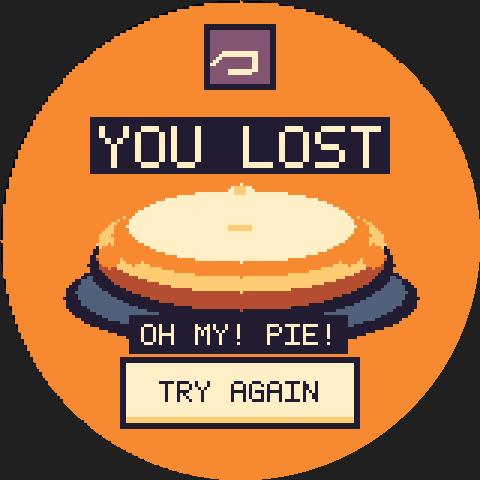
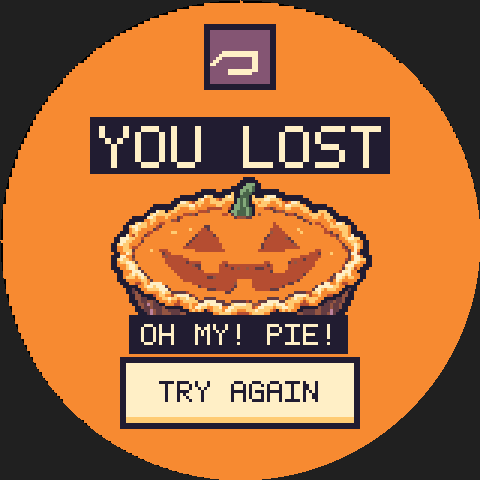
feat(porthole): GPT-drawn jack-o'-lantern pie on the YOU LOST screen
The code-drawn pie is replaced by a jack-o'-lantern pumpkin pie generated
with Codex's image tool and picked from four candidates shown on the real
lost screen. tools/pie.py converts art/pie.png onto the 160px grid in
Pumpkin's palette, adds a 1px ink rim so it stands off the orange page and
writes pie.h (87x56, about 5 KB); make art regenerates it and make check
fails when it is stale. The art skill documents the generate, convert,
review loop for future set pieces.

Changed region(s): [[0.125, 0.3438, 0.875, 0.7188]]

diff --git a/apps/porthole/games/pumpkin-hide-seek/pie.h b/apps/porthole/games/pumpkin-hide-seek/pie.h
@@ -1,0 +1,9 @@
+// Generated by games/pumpkin-hide-seek/tools/pie.py from art/pie.png. Do not edit.
+#pragma once
+#include <stdint.h>
+namespace pumpkin { namespace pie {
+constexpr int W = 87, H = 56;
+constexpr uint32_t COLORS[] = {0x201d32,0x49674d,0x633e43,0x87a878,0x925743,0xb74f30,0xb9809a,0xf58b32,0xffc875,0xffedc2};
+constexpr uint8_t CLEAR = 255;
+constexpr uint8_t PX[] = {255,255,255,255,255,255,255,255,255,255,255,255,255,255,255,255,255,255,255,255,255,255,255,255,255,255,255,255,255,255,255,255,255,255,255,255,255,255,255,255,255,255,255,255,0,0,0,0,255,255,255,255,255,255,255,255,255,255,255,255,255,255,255,255,255,255,255,255,255,255,255,255,255,255,255,255,255,255,255,255,255,255,255,255,255,255,255,255,255,255,255,255,255,255,255,255,255,255,255,255,255,255,255,255,255,255,255,255,255,255,255,255,255,255,255,255,255,255,255,255,255,255,255,255,255,255,255,255,255,255,0,0,0,0,0,0,255,255,255,255,255,255,255,255,255,255,255,255,255,255,255,255,255,255,255,255,255,255,255,255,255,255,255,255,255,255,255,255,255,255,255,255,255,255,255,255,255,255,255,255,255,255,255,255,255,255,255,255,255,255,255,255,255,255,255,255,255,255,255,255,255,255,255,255,255,255,255,255,255,255,255,255,255,255,255,255,0,0,0,3,3,3,0,0,255,255,255,255,255,255,255,255,255,255,255,255,255,255,255,255,255,255,255,255,255,255,255,255,255,255,255,255,255,255,255,255,255,255,255,255,255,255,255,255,255,255,255,255,255,255,255,255,255,255,255,255,255,255,255,255,255,255,255,255,255,255,255,255,255,255,255,255,255,255,255,255,255,255,255,255,255,0,0,0,0,3,3,3,1,0,0,255,255,255,255,255,255,255,255,255,255,255,255,255,255,255,255,255,255,255,255,255,255,255,255,255,255,255,255,255,255,255,255,255,255,255,255,255,255,255,255,255,255,255,255,255,255,255,255,255,255,255,255,255,255,255,255,255,255,255,255,255,255,255,255,255,255,255,0,0,0,0,0,255,255,0,0,0,0,0,0,3,3,1,3,1,0,0,0,0,0,0,0,0,255,255,255,255,255,255,255,255,255,255,255,255,255,255,255,255,255,255,255,255,255,255,255,255,255,255,255,255,255,255,255,255,255,255,255,255,255,255,255,255,255,255,255,255,255,255,255,255,255,255,255,255,255,255,255,255,255,255,255,0,0,0,0,0,0,0,0,0,0,0,0,8,0,0,3,1,1,1,0,0,0,0,0,0,0,0,0,0,0,255,255,255,255,255,255,255,255,255,255,255,255,255,255,255,255,255,255,255,255,255,255,255,255,255,255,255,255,255,255,255,255,255,255,255,255,255,255,255,255,255,255,255,255,255,255,255,255,255,255,255,255,0,0,0,0,0,0,0,0,9,8,8,0,0,0,0,8,9,8,0,0,1,1,1,0,8,0,0,0,8,9,9,9,0,0,0,0,0,0,0,0,0,255,255,255,255,255,255,255,255,255,255,255,255,255,255,255,255,255,255,255,255,255,255,255,255,255,255,255,255,255,255,255,255,255,255,255,255,255,255,255,255,255,255,255,255,0,0,0,0,0,0,0,0,8,9,7,7,8,8,7,5,8,8,8,8,0,3,1,3,1,0,8,8,8,8,9,9,8,8,8,7,0,0,0,0,0,0,0,0,0,255,255,255,255,255,255,255,255,255,255,255,255,255,255,255,255,255,255,255,255,255,255,255,255,255,255,255,255,255,255,255,255,255,255,255,255,255,255,255,255,255,0,0,0,9,9,8,7,5,8,8,8,7,7,8,8,8,8,8,7,7,7,0,3,1,3,1,0,7,8,7,8,8,8,7,7,8,8,7,5,7,9,9,8,0,0,0,0,255,255,255,255,255,255,255,255,255,255,255,255,255,255,255,255,255,255,255,255,255,255,255,255,255,255,255,255,255,255,255,255,255,255,0,0,0,0,0,0,0,0,8,8,8,8,9,9,7,8,7,7,7,7,7,8,8,7,7,7,0,3,3,1,3,1,0,0,7,8,8,8,7,7,7,7,8,7,9,9,8,8,8,8,7,0,0,0,0,0,0,0,255,255,255,255,255,255,255,255,255,255,255,255,255,255,255,255,255,255,255,255,255,255,255,255,255,255,255,255,0,0,0,0,0,0,0,0,8,8,7,7,7,8,8,7,7,7,7,5,5,5,5,5,7,7,5,0,3,3,1,1,3,1,0,7,7,7,5,5,2,5,7,7,7,8,8,7,7,7,8,8,8,0,0,0,0,0,0,0,0,255,255,255,255,255,255,255,255,255,255,255,255,255,255,255,255,255,255,255,255,255,255,255,255,255,0,0,0,9,8,8,0,7,8,8,7,7,7,7,7,7,7,5,5,5,4,7,7,7,7,7,7,0,3,3,1,1,1,3,1,0,7,7,7,7,7,7,2,4,5,4,7,7,7,7,7,7,8,8,7,0,0,8,8,8,0,0,0,255,255,255,255,255,255,255,255,255,255,255,255,255,255,255,255,255,255,255,255,255,255,255,0,0,8,9,8,8,8,8,8,7,7,7,7,5,5,4,5,2,7,7,7,7,7,7,7,7,5,5,7,2,3,1,1,1,3,1,0,7,4,7,7,7,7,7,7,7,7,2,5,5,2,7,7,7,7,8,8,8,8,7,8,8,0,0,0,255,255,255,255,255,255,255,255,255,255,255,255,255,255,255,255,255,255,0,0,0,0,0,9,9,8,7,7,7,8,7,7,7,2,5,7,7,7,7,7,7,7,7,7,7,7,7,7,7,7,7,7,2,5,4,4,2,2,7,7,7,7,7,7,7,7,7,7,7,7,7,7,7,2,2,7,7,7,8,8,7,7,8,8,8,0,0,0,0,0,255,255,255,255,255,255,255,255,255,255,255,255,255,255,0,0,0,0,0,7,7,8,8,7,7,7,7,7,4,5,2,7,7,7,7,7,7,7,7,7,7,7,7,7,7,7,7,7,7,7,7,7,7,7,7,7,7,7,7,7,7,7,7,7,7,7,7,7,7,7,7,7,2,5,7,7,7,7,7,7,8,7,7,0,0,0,0,0,255,255,255,255,255,255,255,255,255,255,255,255,0,0,0,8,9,8,8,7,8,7,7,5,5,7,7,7,7,7,7,7,7,7,7,7,7,7,7,7,7,7,7,7,7,7,7,7,7,7,7,7,7,7,7,7,7,7,7,7,7,5,7,7,7,7,7,7,7,7,7,7,7,2,7,5,5,7,7,7,8,7,9,9,8,0,0,0,255,255,255,255,255,255,255,255,255,255,0,0,8,9,9,8,8,8,7,7,7,5,2,7,7,7,7,7,7,7,7,7,7,7,7,7,7,2,2,7,7,7,7,7,7,7,7,7,7,7,7,7,7,7,7,7,7,7,7,7,5,5,7,7,7,7,7,7,7,7,7,7,7,7,7,7,5,7,7,8,8,8,8,8,8,7,0,0,255,255,255,255,255,255,255,255,255,0,0,7,8,9,8,7,7,7,7,2,5,7,7,7,7,7,7,7,7,7,7,8,7,7,7,5,5,2,7,7,7,7,7,7,7,7,7,7,7,7,7,7,7,7,7,7,7,7,5,5,5,5,7,7,7,7,7,8,7,7,7,7,7,7,7,7,5,7,7,7,7,8,8,8,7,0,0,255,255,255,255,255,255,255,255,0,0,0,7,8,8,7,7,7,5,5,7,7,7,7,7,7,8,8,7,7,7,7,7,7,7,5,5,5,5,5,7,7,7,7,7,7,7,7,7,7,7,7,7,7,7,7,7,7,7,4,5,5,5,5,7,7,7,7,7,8,7,7,7,7,7,7,7,5,5,2,7,7,7,8,8,7,0,0,0,0,255,255,255,255,255,0,0,0,9,7,5,8,7,7,2,5,7,7,7,7,7,7,7,7,7,7,7,7,7,7,7,2,5,5,5,5,5,2,7,7,7,7,7,7,7,7,7,7,7,7,7,7,7,7,7,2,5,5,5,5,5,5,7,7,7,7,7,7,7,7,7,7,7,7,7,7,5,5,2,7,8,8,7,9,0,0,0,0,255,255,255,0,0,9,9,9,8,8,7,7,5,7,7,7,7,7,7,7,7,7,7,7,7,7,7,7,7,2,5,5,5,5,5,5,5,5,7,7,7,7,7,7,7,7,7,7,7,7,7,7,7,2,5,5,5,5,5,5,4,2,7,7,7,7,7,7,7,7,7,7,7,7,7,7,7,4,7,7,8,9,9,8,8,0,0,255,255,255,0,0,9,9,8,8,7,7,7,2,7,7,7,7,7,7,7,7,7,7,7,7,7,7,7,2,5,5,5,5,5,5,5,5,5,7,7,7,7,7,7,7,7,7,7,7,7,7,7,7,5,5,5,5,5,5,5,5,5,2,7,7,7,7,7,7,7,7,7,7,7,7,7,7,7,5,7,7,8,8,8,7,7,0,0,255,0,0,8,9,8,8,7,7,7,5,7,7,7,7,7,7,7,7,7,7,7,7,7,7,7,2,5,5,5,5,5,5,5,5,5,5,5,7,7,7,7,7,7,7,7,7,7,7,7,7,2,5,5,5,5,5,5,5,5,5,5,4,7,7,7,7,7,7,7,7,7,7,7,7,7,7,7,2,7,7,8,9,8,7,0,0,255,0,0,7,7,8,8,7,5,5,7,7,7,7,7,7,7,7,7,7,7,7,7,7,7,5,5,5,5,5,5,5,5,5,5,5,5,5,7,7,7,7,7,7,7,7,7,7,7,7,7,2,5,5,5,5,5,5,5,5,5,5,5,5,7,7,7,7,7,7,7,7,7,7,7,7,7,7,5,2,7,7,9,8,7,0,0,255,0,0,7,7,8,8,8,2,7,7,7,7,7,8,7,7,5,5,5,7,7,7,7,7,7,7,7,7,5,5,5,5,5,5,5,5,5,5,7,7,7,7,7,7,7,7,7,7,7,5,5,5,5,5,5,5,5,5,7,7,7,7,7,7,7,7,7,7,5,5,7,7,7,7,7,7,7,7,5,2,7,9,7,0,0,0,255,255,0,0,7,7,9,8,5,7,7,7,7,7,7,7,7,7,2,5,5,7,7,7,7,7,7,7,7,7,7,7,7,7,7,7,7,7,7,7,7,7,7,7,7,7,7,7,7,7,7,7,7,7,7,7,7,7,7,7,7,7,7,7,7,7,7,5,5,5,2,7,7,7,8,7,7,7,7,7,2,9,9,5,0,0,0,255,0,0,0,9,9,7,7,2,7,7,7,7,7,7,7,7,7,5,4,5,5,5,5,5,7,7,7,7,7,7,7,7,7,7,7,7,7,7,7,7,7,7,7,7,7,7,7,7,7,7,7,7,7,7,7,7,7,7,7,7,7,7,7,5,5,5,5,5,5,5,7,7,7,7,7,7,7,7,7,2,7,9,9,7,0,0,0,0,0,8,9,8,8,7,4,7,7,7,7,7,7,7,7,7,7,5,5,5,5,5,5,5,5,7,7,7,7,7,7,7,7,7,7,7,7,7,7,7,7,7,7,7,7,7,7,7,7,7,7,7,7,7,7,7,7,7,7,5,5,5,5,2,5,5,5,5,7,7,7,7,7,7,7,7,7,5,2,7,9,9,8,8,0,0,0,0,7,8,8,9,9,8,2,7,7,7,7,7,7,7,7,7,5,5,5,5,5,5,5,2,5,5,5,5,7,7,7,7,7,7,7,5,5,7,7,7,7,7,7,7,7,7,7,7,7,5,5,7,7,7,7,7,7,2,5,4,5,5,5,5,5,5,7,7,7,7,7,7,7,7,7,7,2,8,9,9,8,7,7,0,0,0,0,7,7,7,8,9,9,8,7,7,7,7,7,7,7,7,7,7,5,5,5,5,5,5,5,5,4,2,2,7,7,7,7,7,7,5,5,2,5,5,5,5,5,5,5,5,5,5,5,5,5,2,5,7,7,7,7,7,5,5,5,5,5,5,5,5,5,7,7,7,7,7,7,7,7,7,5,9,9,9,7,7,7,0,0,0,0,0,0,7,7,8,9,9,8,2,7,7,7,7,7,7,7,7,7,7,5,5,5,5,5,5,5,5,5,2,7,7,7,7,7,7,5,5,5,5,2,5,4,5,5,4,5,5,2,2,2,5,5,5,7,7,7,7,7,5,5,5,5,5,5,5,5,7,7,7,7,7,7,7,7,7,7,2,8,9,8,5,7,0,0,0,255,255,0,0,0,7,7,7,9,9,9,2,7,7,7,7,7,7,7,7,7,7,5,5,5,5,5,5,5,5,5,5,7,7,7,7,7,5,5,5,5,5,5,5,5,5,5,5,5,5,5,5,5,5,2,7,7,7,7,5,5,5,5,5,5,5,5,7,7,7,7,7,7,7,7,7,7,5,9,9,9,7,7,0,0,0,255,255,255,255,0,0,7,7,8,9,8,9,9,2,7,7,7,7,7,7,7,7,7,7,5,5,5,5,5,5,5,5,5,5,5,5,5,5,5,5,5,5,5,5,5,5,5,5,5,5,5,5,5,5,5,5,5,5,5,5,5,5,5,5,5,5,2,7,7,7,7,7,7,7,7,7,2,9,9,9,8,9,7,7,7,0,0,255,255,255,255,0,0,7,8,8,8,7,8,9,8,2,7,7,7,7,7,7,7,7,7,7,5,5,5,5,5,5,5,5,5,2,2,4,5,5,5,5,5,5,5,5,5,5,5,5,5,5,5,5,5,5,5,5,5,5,5,5,5,5,5,5,5,7,7,7,7,7,7,7,7,7,2,4,9,9,8,7,8,8,7,7,0,0,255,255,255,255,0,0,0,7,7,7,7,7,8,8,7,2,7,7,7,7,7,7,7,7,7,7,5,5,5,5,5,5,5,5,5,5,5,5,5,5,5,5,5,5,7,7,7,7,7,5,5,5,5,5,5,5,5,5,5,5,5,5,5,5,2,7,7,7,7,7,7,7,7,7,5,2,7,9,8,7,7,7,7,7,0,0,255,255,255,255,255,255,0,0,0,7,7,5,5,7,8,7,9,9,9,9,7,7,7,7,7,7,7,7,7,7,5,5,5,5,5,5,5,5,5,5,5,5,5,5,4,7,7,7,7,7,5,5,5,5,5,5,5,5,5,5,5,5,2,2,7,7,7,7,7,7,7,7,7,2,9,9,7,7,8,7,5,5,7,7,0,0,255,255,255,255,255,255,255,255,0,0,0,0,0,7,7,8,9,9,8,9,9,9,2,7,7,7,7,7,7,7,7,7,7,2,5,5,5,5,5,5,5,5,5,5,5,2,7,7,7,7,7,5,5,5,5,5,5,5,5,5,5,2,7,7,7,7,7,7,7,7,7,7,2,9,9,9,9,9,8,8,7,7,0,0,0,0,255,255,255,255,255,255,255,255,255,255,0,0,2,0,0,7,7,8,8,8,8,9,9,9,2,7,7,7,7,7,7,7,7,7,7,7,7,2,2,2,5,5,5,5,5,2,7,7,7,7,7,7,7,5,5,5,5,5,2,2,2,7,7,7,7,7,7,7,7,7,7,7,2,9,9,8,7,8,8,8,7,7,0,0,2,0,0,255,255,255,255,255,255,255,255,255,255,0,0,2,4,0,0,7,7,7,7,7,8,9,8,8,2,2,2,2,2,5,7,7,7,7,7,7,7,7,7,7,7,7,2,2,7,7,7,7,7,7,7,7,7,7,7,7,7,7,7,7,7,7,7,7,7,2,2,2,2,5,5,8,8,9,7,7,7,7,7,7,0,0,4,0,0,255,255,255,255,255,255,255,255,255,255,255,255,0,0,4,4,0,0,0,0,5,7,8,8,7,7,5,8,9,9,9,9,2,5,7,7,7,7,7,7,7,7,7,7,7,7,7,7,7,7,7,7,7,7,7,7,7,7,7,7,7,7,7,7,7,2,2,9,9,9,9,8,5,7,7,8,7,7,5,5,0,0,0,4,4,0,0,255,255,255,255,255,255,255,255,255,255,255,255,0,0,4,4,2,2,0,0,0,7,7,8,8,9,8,8,7,8,8,9,8,8,2,7,7,2,2,2,2,7,7,7,7,7,7,7,7,7,7,7,7,7,7,7,7,7,2,2,2,2,7,7,2,7,8,9,8,8,7,8,8,8,8,7,7,0,0,0,0,2,2,4,0,0,0,255,255,255,255,255,255,255,255,255,255,255,255,0,0,0,4,2,2,4,4,2,0,7,7,7,8,7,7,5,7,8,8,8,8,8,2,2,9,9,9,9,2,2,2,7,7,2,2,2,2,2,5,2,7,7,2,2,2,9,9,9,9,2,2,8,8,8,8,8,7,5,7,8,8,7,7,0,0,2,2,4,2,2,4,0,0,255,255,255,255,255,255,255,255,255,255,255,255,255,255,0,0,4,4,2,6,4,2,2,0,0,7,7,7,5,5,7,7,7,8,7,7,9,9,9,8,9,9,9,9,2,2,2,8,9,9,9,9,8,8,4,4,5,9,9,9,9,8,9,9,9,7,8,8,7,7,5,5,5,7,7,7,0,0,2,2,4,2,2,4,0,0,0,255,255,255,255,255,255,255,255,255,255,255,255,255,255,255,0,0,4,2,2,4,2,2,2,4,0,0,0,0,0,0,7,7,8,7,9,9,8,8,7,7,8,8,9,7,7,9,9,8,8,8,8,8,8,5,7,9,9,8,8,8,7,8,8,9,9,8,8,7,7,0,0,0,0,0,0,4,2,2,2,4,2,2,4,0,0,255,255,255,255,255,255,255,255,255,255,255,255,255,255,255,255,0,0,0,2,2,6,4,2,2,4,4,2,2,2,2,0,0,0,7,8,7,8,7,0,5,7,8,8,8,7,9,9,8,8,7,7,7,8,8,8,9,8,8,8,8,7,5,0,7,8,7,8,7,7,0,0,2,2,2,2,4,4,2,2,2,6,2,2,0,0,0,255,255,255,255,255,255,255,255,255,255,255,255,255,255,255,255,255,0,0,0,2,6,4,2,2,4,4,4,2,2,2,4,4,0,0,0,0,0,0,0,0,0,7,7,8,8,8,8,7,7,5,5,5,5,7,8,8,8,8,7,7,0,0,0,0,0,0,0,0,0,4,4,2,2,2,2,4,4,2,2,4,6,2,0,0,0,255,255,255,255,255,255,255,255,255,255,255,255,255,255,255,255,255,255,255,0,0,0,4,4,2,2,2,4,4,2,2,2,4,4,2,2,4,4,4,2,2,4,0,0,0,7,7,7,7,7,0,0,0,0,0,7,7,7,7,7,7,0,0,4,2,2,4,4,4,2,2,6,4,2,2,2,2,4,2,2,2,4,0,0,0,0,255,255,255,255,255,255,255,255,255,255,255,255,255,255,255,255,255,255,255,255,255,0,0,0,0,4,2,2,4,4,2,2,2,4,4,4,2,4,4,4,2,2,4,4,4,0,0,0,0,0,0,0,2,2,2,2,0,0,0,0,0,0,4,4,4,2,2,4,4,4,2,4,6,4,2,2,2,6,4,2,2,4,0,0,0,0,255,255,255,255,255,255,255,255,255,255,255,255,255,255,255,255,255,255,255,255,255,255,255,0,0,0,0,2,2,4,4,2,2,2,4,4,4,2,4,4,4,2,2,4,6,4,2,2,4,4,2,2,2,2,4,2,2,2,2,4,4,2,2,4,6,4,2,4,4,4,4,2,4,4,2,2,2,2,4,4,2,2,0,0,0,255,255,255,255,255,255,255,255,255,255,255,255,255,255,255,255,255,255,255,255,255,255,255,255,255,255,0,0,0,0,0,0,4,2,2,2,2,4,4,2,2,4,4,2,2,4,6,4,2,2,4,4,2,2,2,6,4,4,2,2,2,4,4,2,2,4,6,4,2,4,4,4,2,2,4,4,4,2,2,2,4,0,0,0,0,0,255,255,255,255,255,255,255,255,255,255,255,255,255,255,255,255,255,255,255,255,255,255,255,255,255,255,255,255,255,255,0,0,0,0,0,2,2,2,6,4,2,2,4,4,2,2,2,6,4,2,2,4,4,4,2,2,6,4,4,2,2,4,4,2,2,4,4,6,2,2,4,4,4,2,2,4,4,2,2,2,0,0,0,0,0,255,255,255,255,255,255,255,255,255,255,255,255,255,255,255,255,255,255,255,255,255,255,255,255,255,255,255,255,255,255,255,255,255,255,0,0,0,0,0,0,4,4,4,2,2,4,2,2,2,6,4,4,2,2,4,4,2,2,6,4,4,2,2,4,4,2,2,4,4,6,2,2,4,4,2,2,2,4,0,0,0,0,0,0,0,255,255,255,255,255,255,255,255,255,255,255,255,255,255,255,255,255,255,255,255,255,255,255,255,255,255,255,255,255,255,255,255,255,255,255,255,255,255,0,0,0,0,0,0,0,0,2,4,2,2,2,7,4,4,2,2,4,4,2,2,6,4,4,2,2,4,4,2,2,4,4,7,2,2,4,4,2,0,0,0,0,0,0,0,255,255,255,255,255,255,255,255,255,255,255,255,255,255,255,255,255,255,255,255,255,255,255,255,255,255,255,255,255,255,255,255,255,255,255,255,255,255,255,255,255,255,255,255,255,0,0,0,0,0,0,0,0,0,0,0,0,0,0,4,4,2,2,2,4,4,2,2,4,4,0,0,0,0,0,0,0,0,0,0,0,0,0,0,255,255,255,255,255,255,255,255,255,255,255,255,255,255,255,255,255,255,255,255,255,255,255,255,255,255,255,255,255,255,255,255,255,255,255,255,255,255,255,255,255,255,255,255,255,255,255,255,255,255,255,0,0,0,0,0,0,0,0,0,0,0,0,0,0,0,0,0,0,0,0,0,0,0,0,0,0,0,0,0,0,0,0,255,255,255,255,255,255,255,255,255,255,255,255,255,255,255,255,255,255,255,255,255,255,255,255,255,255,255,255,255,255,255,255,255,255,255,255,255,255,255,255,255,255,255,255,255,255,255,255,255,255,255,255,255,255,255,255,255,255,255,255,255,255,255,255,255,0,0,0,0,0,0,0,0,0,0,0,0,255,255,255,255,255,255,255,255,255,255,255,255,255,255,255,255,255,255,255,255,255,255,255,255,255,255,255,255,255,255,255,255,255,255,255,255,255,255};
+} }  // namespace pumpkin::pie

diff --git a/apps/porthole/games/pumpkin-hide-seek/tools/pie.py b/apps/porthole/games/pumpkin-hide-seek/tools/pie.py
@@ -1,0 +1,112 @@
+#!/usr/bin/env python3
+"""The YOU LOST pie: art/pie.png (a GPT image) -> pie.h on Pumpkin's 160px grid and palette.
+
+art/pie.png came from Codex's built-in image generator, approved by eye on the real lost screen. Prompt:
+  retro 16-bit pixel art, large square pixels, chunky #201d32 outline, no anti-aliasing, no text,
+  flat #00FF00 background, Pumpkin's palette; a whole pumpkin pie whose filling shows a goofy
+  jack-o'-lantern face pressed in darker rust, a little green stem on top, golden crust. Funny, not scary.
+
+Each grid cell takes the most common palette colour among its source pixels (green counts as
+transparent), then a 1px ink rim keeps the pie off the orange page. Needs Pillow.
+  python3 games/pumpkin-hide-seek/tools/pie.py           regenerate pie.h
+  python3 games/pumpkin-hide-seek/tools/pie.py --check   fail if pie.h is stale
+"""
+
+import sys
+from collections import Counter
+from pathlib import Path
+
+from PIL import Image
+
+GAME = Path(__file__).resolve().parents[1]
+SOURCE, HEADER = GAME / "art/pie.png", GAME / "pie.h"
+BOX_W, BOX_H = 112, 54  # fits between the YOU LOST plate and the button
+INK = 0x201D32
+# render.cpp's palette, minus the beam and sky colours a pie never needs
+PALETTE = (0x201D32, 0x463451, 0x815573, 0xB9809A, 0x925743, 0x633E43, 0xF58B32, 0xB74F30, 0xFFC875, 0xFFEDC2, 0x87A878, 0x49674D, 0x263449, 0x53637A, 0xE6B79D, 0xB6ACB4)
+CLEAR, RIM = -1, -2
+
+
+def rgb(c):
+    return (c >> 16) & 255, (c >> 8) & 255, c & 255
+
+
+def keyed(p):
+    return p[1] > p[0] + 60 and p[1] > p[2] + 60  # the green screen and its fringes
+
+
+def nearest(p):
+    return min(PALETTE, key=lambda c: sum((a - b) ** 2 for a, b in zip(p, rgb(c), strict=True)))
+
+
+def cells(image):
+    px = image.load()
+    mask = Image.new("L", image.size)
+    mp = mask.load()
+    for y in range(image.height):
+        for x in range(image.width):
+            mp[x, y] = 0 if keyed(px[x, y]) else 255
+    x0, y0, x1, y1 = mask.getbbox()
+    scale = min(BOX_W / (x1 - x0), BOX_H / (y1 - y0))
+    w, h = round((x1 - x0) * scale), round((y1 - y0) * scale)
+
+    def vote(gx, gy):
+        xs = range(x0 + int(gx / scale), min(x1, x0 + int((gx + 1) / scale)), 2)
+        ys = range(y0 + int(gy / scale), min(y1, y0 + int((gy + 1) / scale)), 2)
+        votes = Counter(CLEAR if keyed(px[x, y]) else nearest(px[x, y]) for y in ys for x in xs)
+        return votes.most_common(1)[0][0]
+
+    return [[vote(gx, gy) for gx in range(w)] for gy in range(h)]
+
+
+def rimmed(grid):
+    w, h = len(grid[0]) + 2, len(grid) + 2
+    out = [[CLEAR] * w for _ in range(h)]
+    for y, row in enumerate(grid):
+        out[y + 1][1 : w - 1] = row
+
+    def solid(x, y):
+        return 0 <= x < w and 0 <= y < h and out[y][x] >= 0
+
+    for y in range(h):
+        for x in range(w):
+            if out[y][x] == CLEAR and any(solid(x + dx, y + dy) for dx, dy in ((1, 0), (-1, 0), (0, 1), (0, -1))):
+                out[y][x] = RIM
+    return [[INK if c == RIM else c for c in row] for row in out]
+
+
+def header():
+    grid = rimmed(cells(Image.open(SOURCE).convert("RGB")))
+    colours = sorted({c for row in grid for c in row if c != CLEAR})
+    index = {c: i for i, c in enumerate(colours)}
+    data = ",".join(str(255 if c == CLEAR else index[c]) for row in grid for c in row)
+    return "\n".join(
+        [
+            "// Generated by games/pumpkin-hide-seek/tools/pie.py from art/pie.png. Do not edit.",
+            "#pragma once",
+            "#include <stdint.h>",
+            "namespace pumpkin { namespace pie {",
+            f"constexpr int W = {len(grid[0])}, H = {len(grid)};",
+            "constexpr uint32_t COLORS[] = {" + ",".join(f"0x{c:06x}" for c in colours) + "};",
+            "constexpr uint8_t CLEAR = 255;",
+            f"constexpr uint8_t PX[] = {{{data}}};",
+            "} }  // namespace pumpkin::pie",
+            "",
+        ]
+    )
+
+
+def main():
+    text = header()
+    if "--check" in sys.argv[1:]:
+        if not HEADER.exists() or HEADER.read_text(encoding="utf-8") != text:
+            print("pie.h is out of date: run `make art`")
+            sys.exit(1)
+        print("pie.h up to date")
+        return
+    HEADER.write_text(text, encoding="utf-8")
+    print(f"wrote {HEADER.relative_to(GAME.parents[1])}")
+
+
+if __name__ == "__main__":
+    main()

diff --git a/apps/porthole/games/pumpkin-hide-seek/render.cpp b/apps/porthole/games/pumpkin-hide-seek/render.cpp
@@ -1,4 +1,5 @@
 #include "render.h"
+#include "pie.h"
 #include "rules.h"
 #include "gfx565.h"
 #include <algorithm>
@@ -235,12 +236,13 @@ void icing(uint32_t ms) {
   box(x,rim,1,depth,ORANGE); box(x,rim+depth-2,1,3,GOLD);
  }
 }
+// GPT-drawn, converted by tools/pie.py; it sits just under the YOU LOST plate.
 void pie() {
- oval(80,99,59,17,INK); oval(80,97,55,15,BLUE); oval(80,88,51,19,INK);
- oval(80,86,48,17,RUST); oval(80,81,48,16,GOLD);
- for(int x=36;x<=124;x+=8) oval(x,79+std::abs(80-x)/7,4,4,ORANGE);
- oval(80,78,43,14,ORANGE); oval(80,75,38,12,CREAM);
- oval(80,70,9,6,CREAM); oval(80,66,5,5,CREAM); box(78,62,4,3,GOLD); box(76,75,8,2,GOLD);
+ const int left=80-pie::W/2,top=59;
+ for(int y=0;y<pie::H;++y) for(int x=0;x<pie::W;++x) {
+  const uint8_t c=pie::PX[y*pie::W+x];
+  if(c!=pie::CLEAR) box(left+x,top+y,1,1,rgb(pie::COLORS[c]));
+ }
 }
 void endPage(const View& v) {
  if(v.page==Page::Lost) {

diff --git a/.claude/skills/art/SKILL.md b/.claude/skills/art/SKILL.md
@@ -26,3 +26,25 @@ still builds and runs.
 4. The launcher icon (`generated/icon.h`, from `tools/icon.py`) follows the indexed style of `tools/shell_art.py`, not the RGB565 scenes -- `App::icon()` is always an indexed `gfx::Sprite` regardless of the game's own surface.
 5. Fonts are a separate, one-time conversion: `generated/fonts.h` comes from the four bundled LVGL `.c` font files via `apps/porthole/tools/fontconv.py` (a regex over the C arrays; `--game` picks the game), not from `art.js`. Regenerating needs `npx lv_font_conv@1.5.3` and is only necessary if a glyph is ever added -- the content gate (see the `content` skill) rejects any glyph outside the existing set, so this should be rare.
 6. Confirm nothing else broke: rerun with `--check` (item 2) plus `make -C apps/porthole test && make -C apps/porthole snap`.
+
+## Pumpkin Hide & Seek (`apps/porthole/games/pumpkin-hide-seek/`)
+
+Most art is code-drawn in `render.cpp` (box/oval on the 160px grid). The one raster asset, the
+YOU LOST pie, comes from GPT through Codex, with a human picking it:
+
+1. Generate 3-4 candidates with Codex's built-in image tool, which bills the user's ChatGPT plan
+   and needs no API key. Run each in a scratch dir, in parallel:
+   `codex exec --skip-git-repo-check --ephemeral -C <scratch> -s workspace-write "Use your built-in
+   image generation tool ... flat pure #00FF00 background ... copy the PNG here as a.png"`.
+   Ask for large square pixels, a #201d32 outline, no anti-aliasing and Pumpkin's palette hexes;
+   the prompt for the shipped pie is in `tools/pie.py`. If Codex says its configured model "requires
+   a newer version of Codex", the CLI is stale: ask the user to run `codex update`.
+2. Convert each candidate through the real pipeline and composite it into the real lost screen
+   (draw `View{page=Lost}` with the candidate's `pie.h`). Show the user the converted screens side
+   by side with the current one, never the raw GPT images alone, and let them pick or refine.
+3. Commit the chosen PNG as `art/pie.png` and run `make -C apps/porthole art` (`tools/pie.py`
+   rewrites `pie.h`). `make check` runs `tools/pie.py --check` and the goldens; regenerate the
+   goldens with `tools/pumpkin_goldens.py --update` and review `pumpkin_lost.png`.
+
+Keep GPT for still set pieces. Animated or posed characters stay code-drawn: generated images
+drift between frames.

diff --git a/apps/porthole/games/pumpkin-hide-seek/CLAUDE.md b/apps/porthole/games/pumpkin-hide-seek/CLAUDE.md
@@ -36,6 +36,11 @@ writes no saves. No lives, score, offline simulation or progression to migrate.
 - `render.*`: original crisp pixel art on a 160px logical grid expanded 3x onto
   the RGB565 surface with its own palette and font. No borrowed game assets.
   Frosting starts at the upper circular edge. Art and text stay within the glass.
+- The YOU LOST pie is the one raster asset: `art/pie.png` (generated by Codex's image tool,
+  prompt in `tools/pie.py`) converted by `tools/pie.py` into `pie.h` on the 160px grid,
+  snapped to the game's palette with a 1px ink rim. `make art` regenerates it; `make check`
+  fails if `pie.h` is stale. Never hand-edit `pie.h`. To change the pie, replace the PNG
+  (pure #00FF00 background) and review it on the real lost screen before committing.
 - `host/test_pumpkin.cpp`: rules, grip/reentry, input gates, clock behavior and
   round-screen rendering. Scripted emulator tours live in `tests/playtests/`.
 
